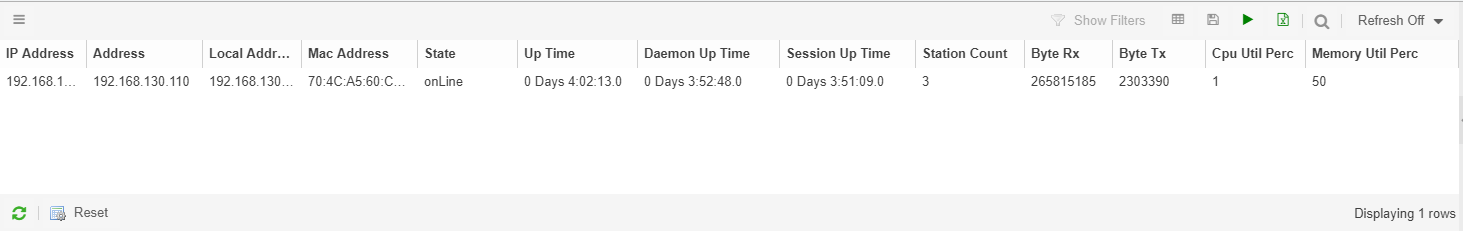
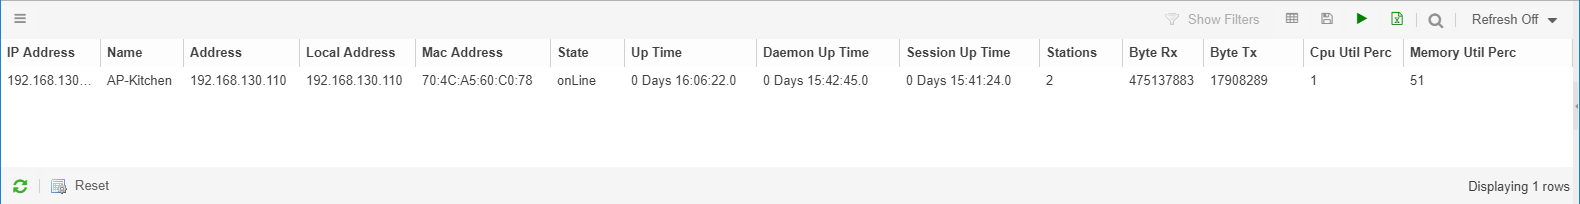
Enhanced flexviews

diff --git a/FlexView/FortiGate/README.md b/FlexView/FortiGate/README.md
@@ -58,12 +58,12 @@ Name, Admin State, Location, Profile, Scan, VAP All, Vaps
 ##### WLAN AP Hardware
 Tested with FortiGate: v5.6.4,build1575b1575,180425 (GA), MIBs are necesary for Extreme Management Center 8.1
 
-Mac Address, Address, Local Address, State, Profile, AP Model, HW Version, AP Boot, Region, Memory Capacity
+Name, Mac Address, Address, Local Address, State, Profile, AP Model, HW Version, AP Boot, Region, Memory Capacity
 
 ##### WLAN AP Stats
 Tested with FortiGate: v5.6.4,build1575b1575,180425 (GA), MIBs are necesary for Extreme Management Center 8.1
 
-Address, Local Address, State, Profile, Up Time, Daemon Up Time, Session Up Time, Station Count, Byte Rx, Byte Tx, Cpu Util Perc., Memory Util Perc.
+Name, Address, Local Address, State, Profile, Up Time, Daemon Up Time, Session Up Time, Stations, Byte Rx, Byte Tx, Cpu Util Perc., Memory Util Perc.
 
 ##### WLAN Mobile Units
 Tested with FortiGate: v5.6.4,build1575b1575,180425 (GA), MIBs are necesary for Extreme Management Center 8.1
@@ -73,7 +73,7 @@ Address, WLAN, Radio ID,  VLAN, VCI, Host, User, Group, Signal, Noise, Idle, Tx 
 ##### WLAN Radio
 Tested with FortiGate: v5.6.4,build1575b1575,180425 (GA), MIBs are necesary for Extreme Management Center 8.1
 
-BSSID, Radio Mode, Chountry, Channel, Power, Station Count
+Name, BSSID, Radio Mode, Chountry, Channel, Power, Stations
 
 ##### WLAN SSID
 Tested with FortiGate: v5.6.4,build1575b1575,180425 (GA), MIBs are necesary for Extreme Management Center 8.1
@@ -83,7 +83,7 @@ SSID, Visible, Security Encryption, Authentication, Radius Server, User Group, L
 ##### WLAN Virtual AP
 Tested with FortiGate: v5.6.4,build1575b1575,180425 (GA), MIBs are necesary for Extreme Management Center 8.1
 
-Radio ID, SSID, Stations, Byte Rx, Byte Tx
+Name, Radio ID, SSID, Stations, Byte Rx, Byte Tx
 
 ## Examples
 * [CPU](sample/FortiGateCPU.png?raw=true)
